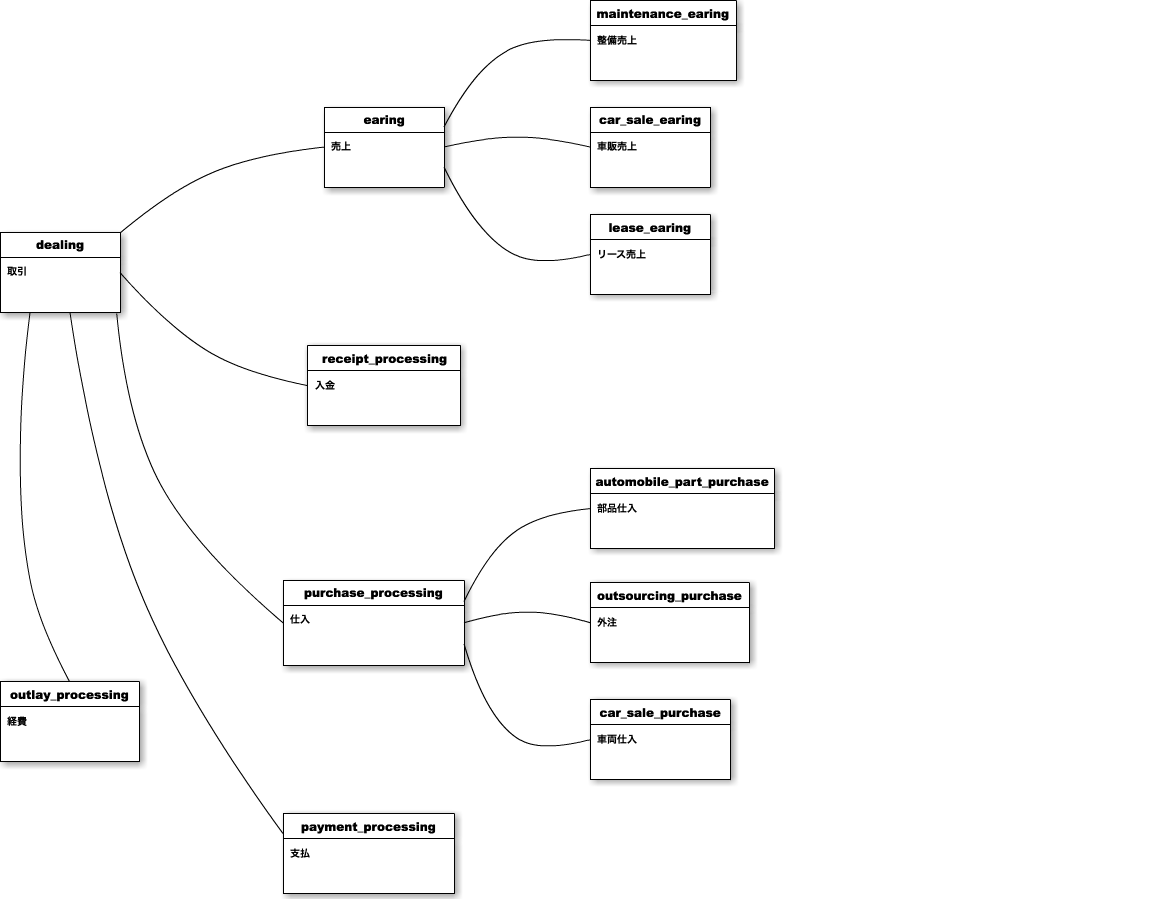
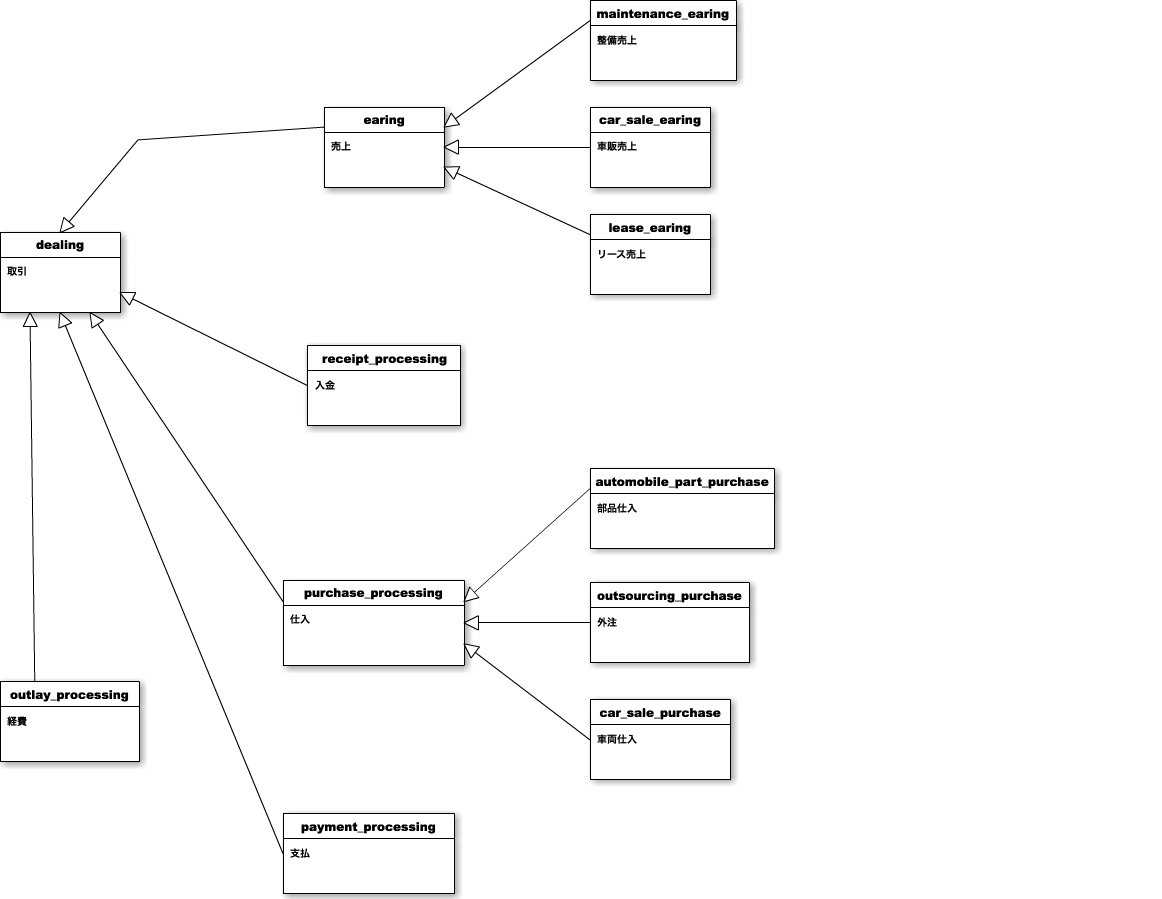
画像を修正 コメントを追加

diff --git a/public1_repository/doc/IntegrationScemaDealing.md b/public1_repository/doc/IntegrationScemaDealing.md
@@ -1,14 +1,18 @@
-##統合スキーマ(取引周辺)
+###統合スキーマ案(取引周辺)
 
-###中間モデル使用パターン
+債権債務が関係する全てを把握したい
+#####案1 (中間モデル使用パターン)
 
 ![画像1](std_model_dealing00.png)
 
-https://cacoo.com/diagrams/i1ZUBPtJ7NFWqlMA#672B4
+「整備見積、車販売上、リース売上」を「売上」で「部品仕入、外注、車両仕入」を「仕入」でのような中間モデルを使った集計が可能ですがリレーションの把握が難しいかもしれません
+https://cacoo.com/diagrams/i1ZUBPtJ7NFWqlMA#672B4 (まだ共有設定はしていません)
 
 
-###中間モデル未使用パターン
+
+#####案2 (中間モデル未使用パターン)
 
 ![画像2](std_model_dealing01.png)
 
-https://cacoo.com/diagrams/i1ZUBPtJ7NFWqlMA#DA9C2
+構造は(案1よりもリレーションも含めて比較的シンプルになりますが全ての売上だけの集計、全ての仕入だけの集計の際に手間が掛かります
+https://cacoo.com/diagrams/i1ZUBPtJ7NFWqlMA#DA9C2 (まだ共有設定はしていません)
